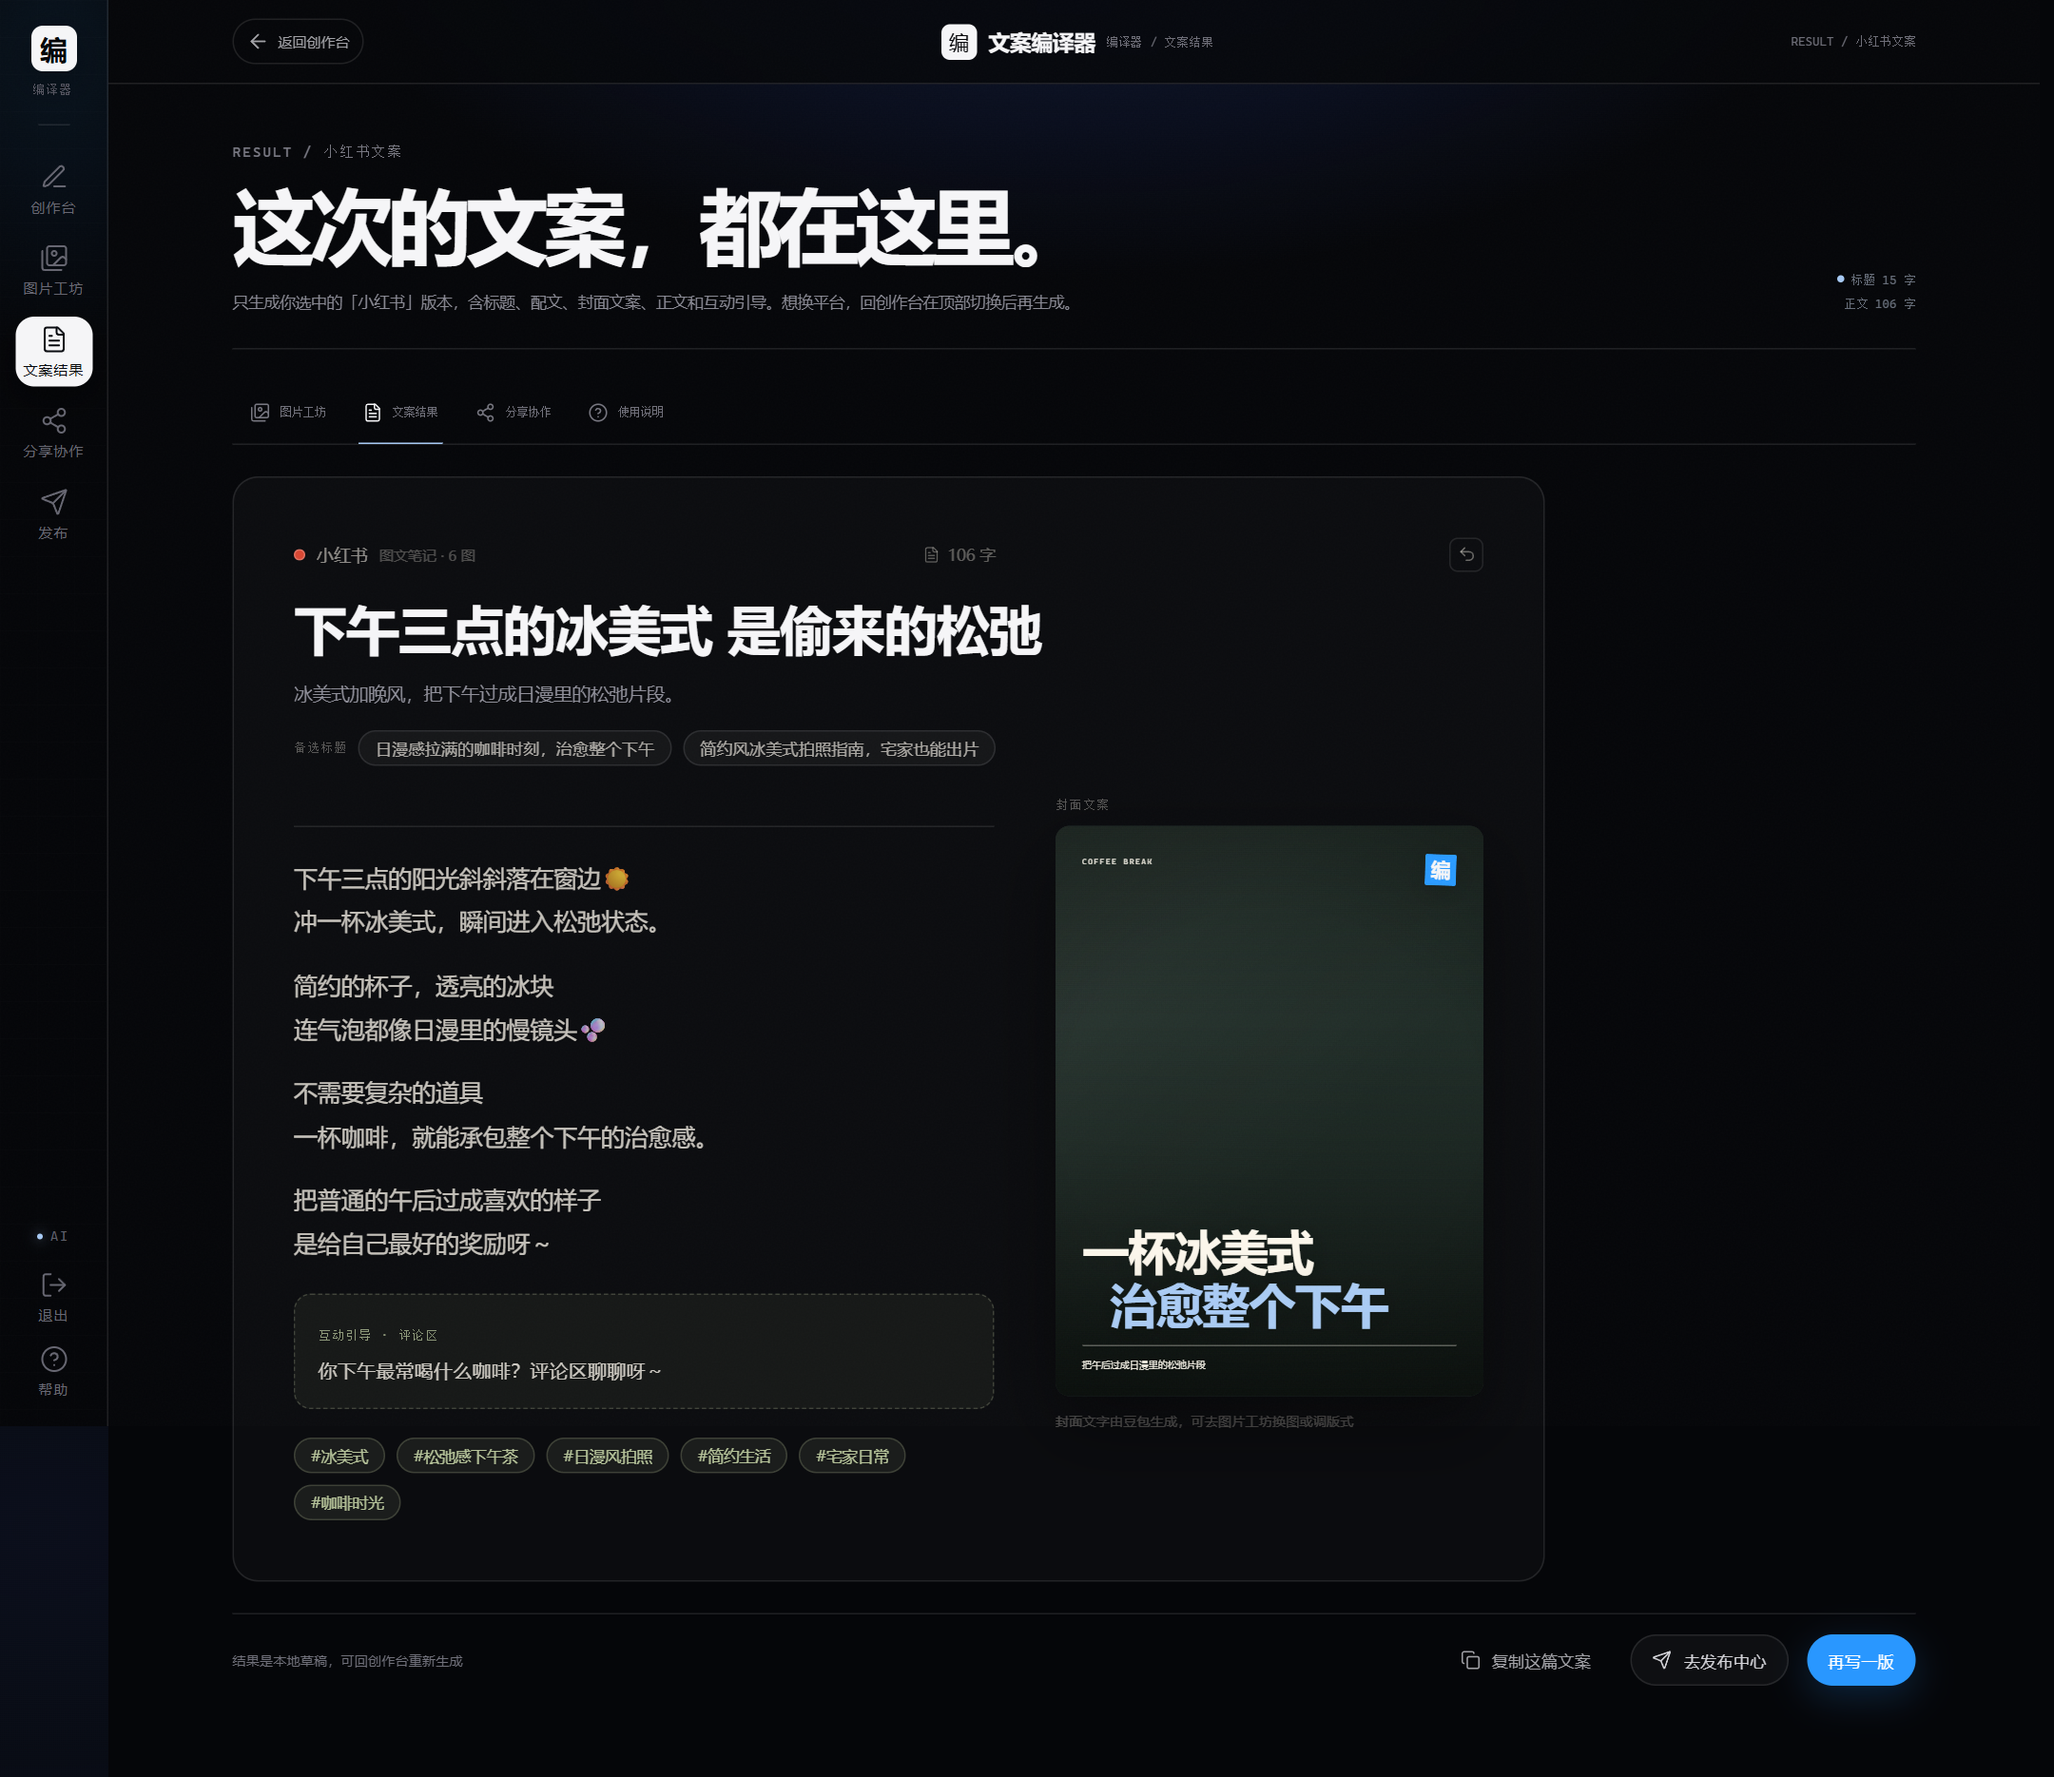
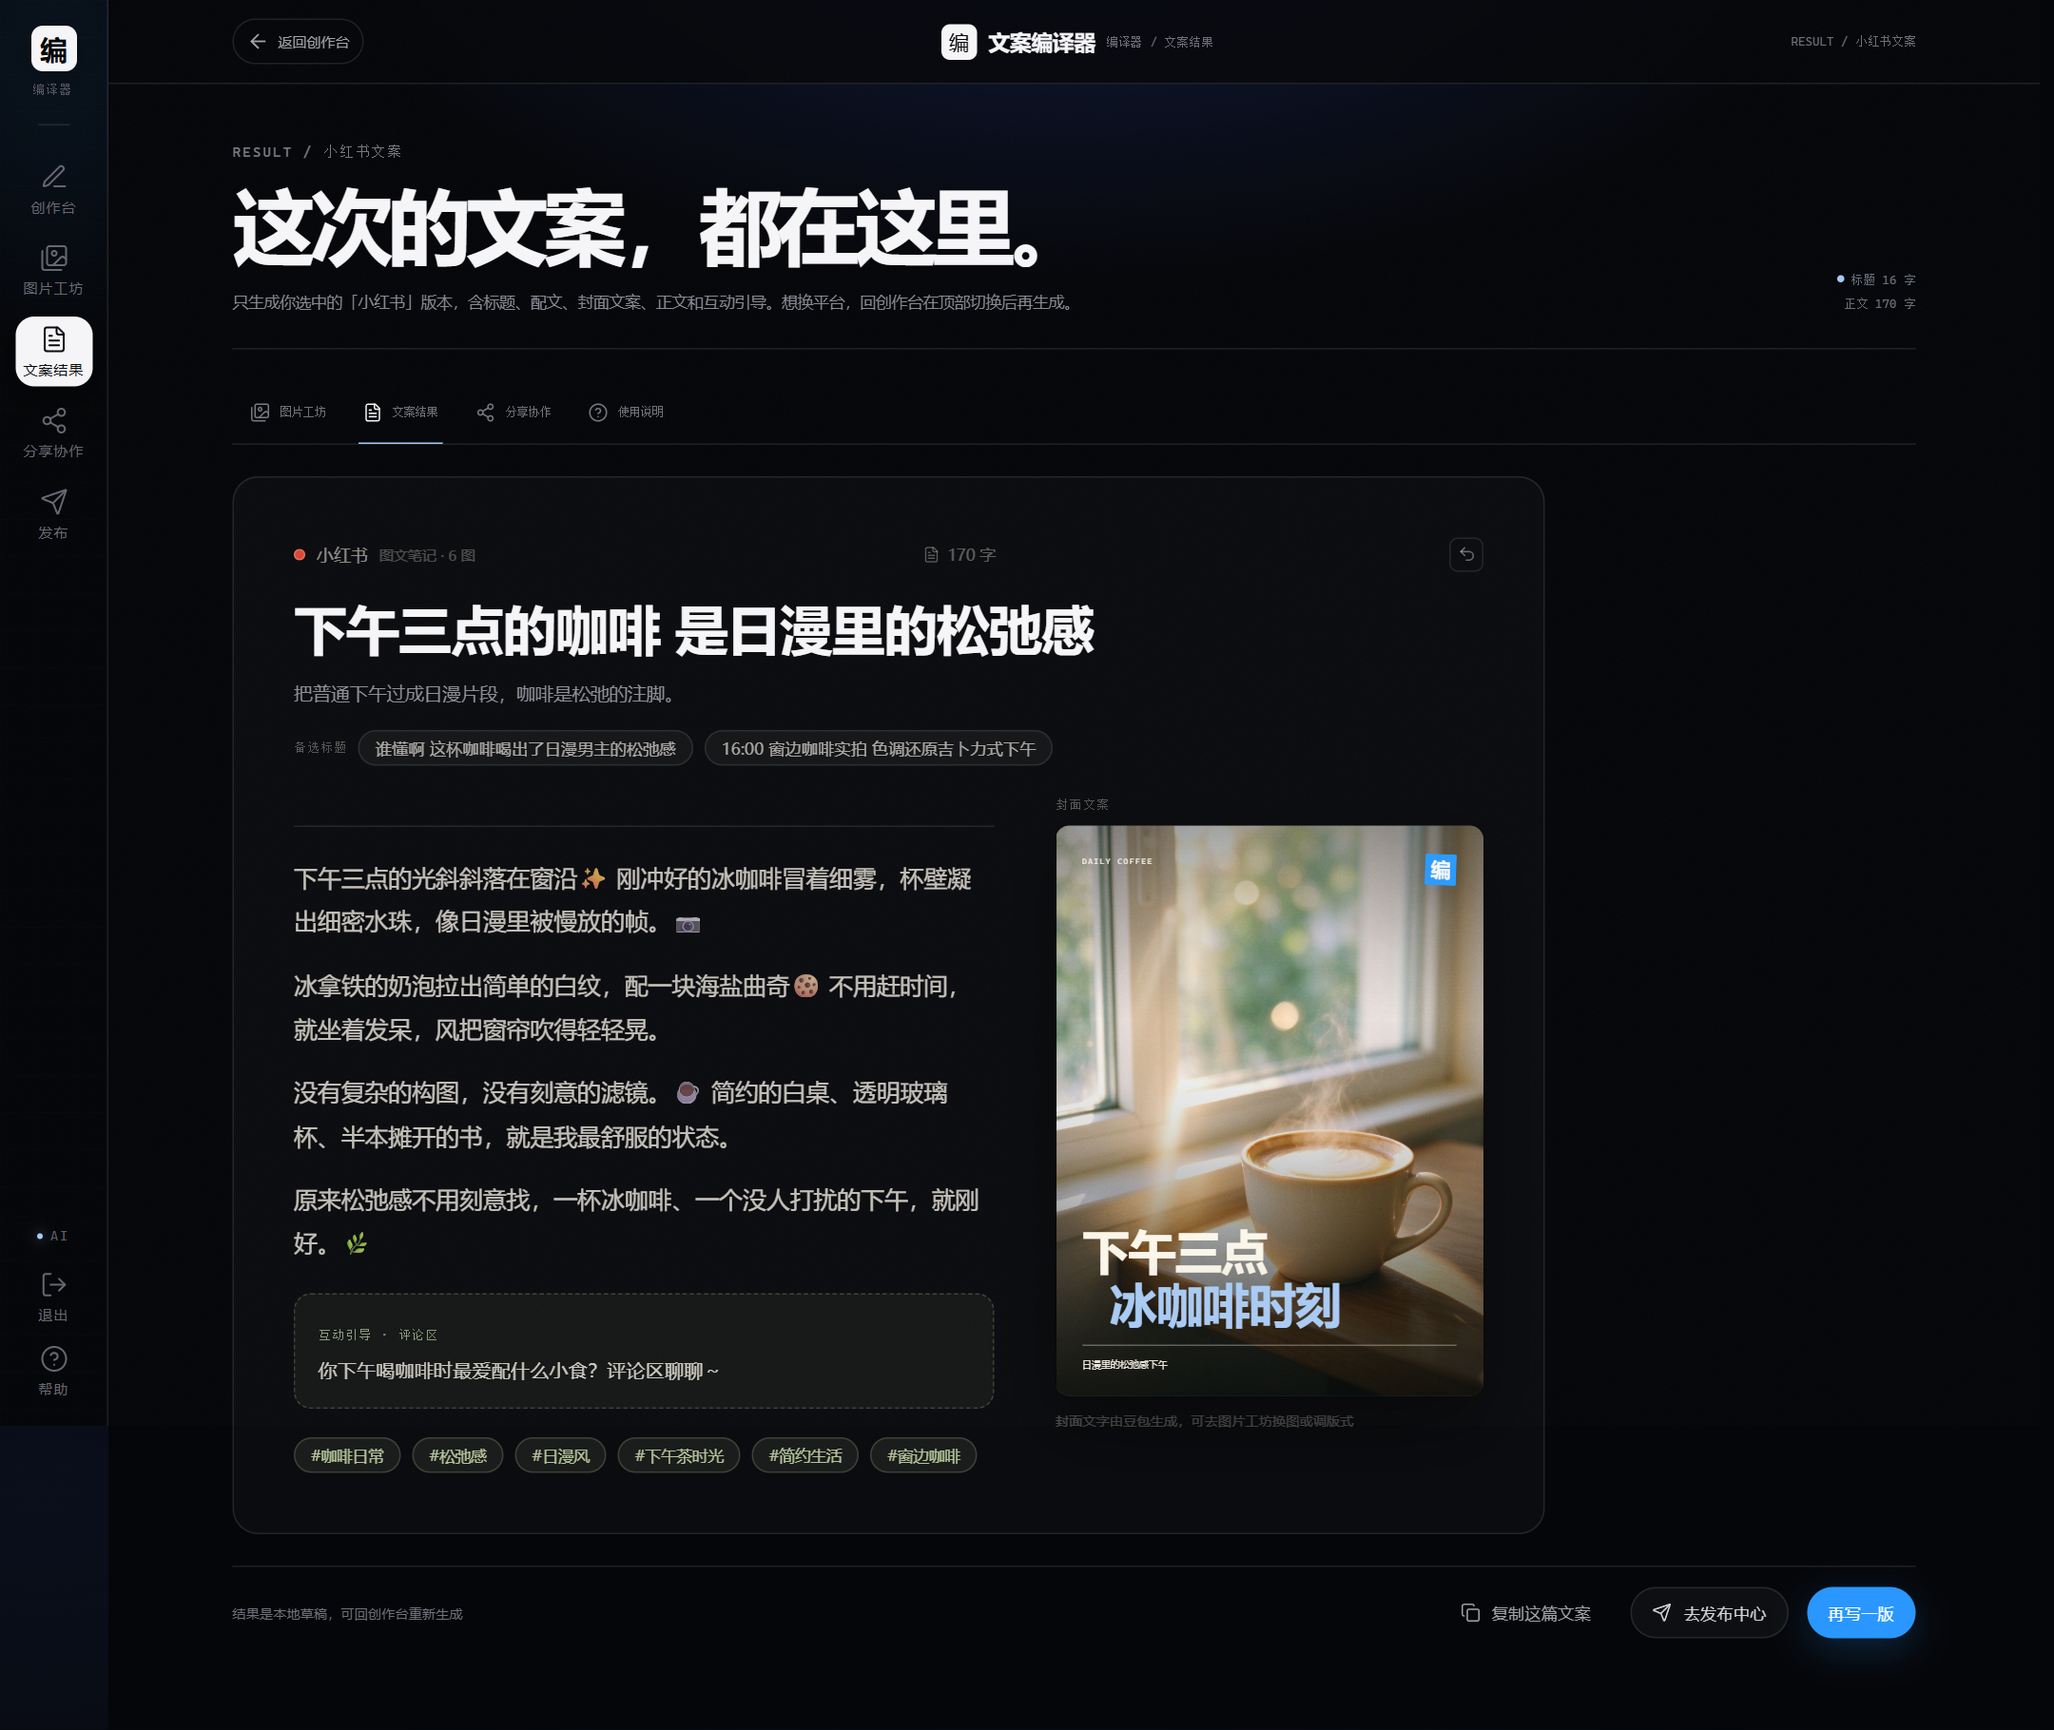
落地页结果截图换成咖啡实拍封面

diff --git a/v2/landing.js b/v2/landing.js
@@ -3,7 +3,7 @@
   const shotCaption = document.getElementById('shot-caption');
   const shotButtons = document.querySelectorAll('.seg__btn[data-shot]');
   const shots = {
-    result: { src: './assets/app-result.png?v=3', caption: '编译结果 · 标题 / 配文 / 正文 / 话题，逐项可复制' },
+    result: { src: './assets/app-result.png?v=4', caption: '编译结果 · 标题 / 配文 / 正文 / 话题，逐项可复制' },
     studio: { src: './assets/app-studio.png?v=3', caption: '封面工坊 · 换图、套版式、调字体，一套带走' },
   };
 
